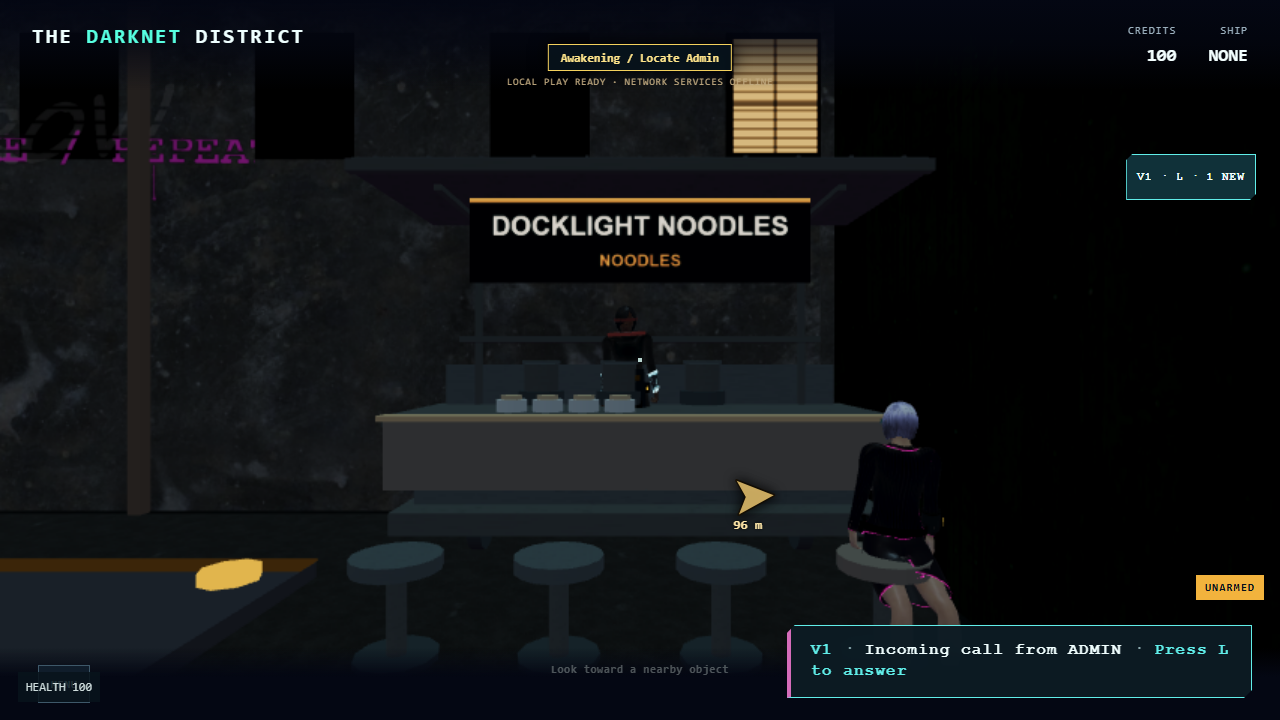
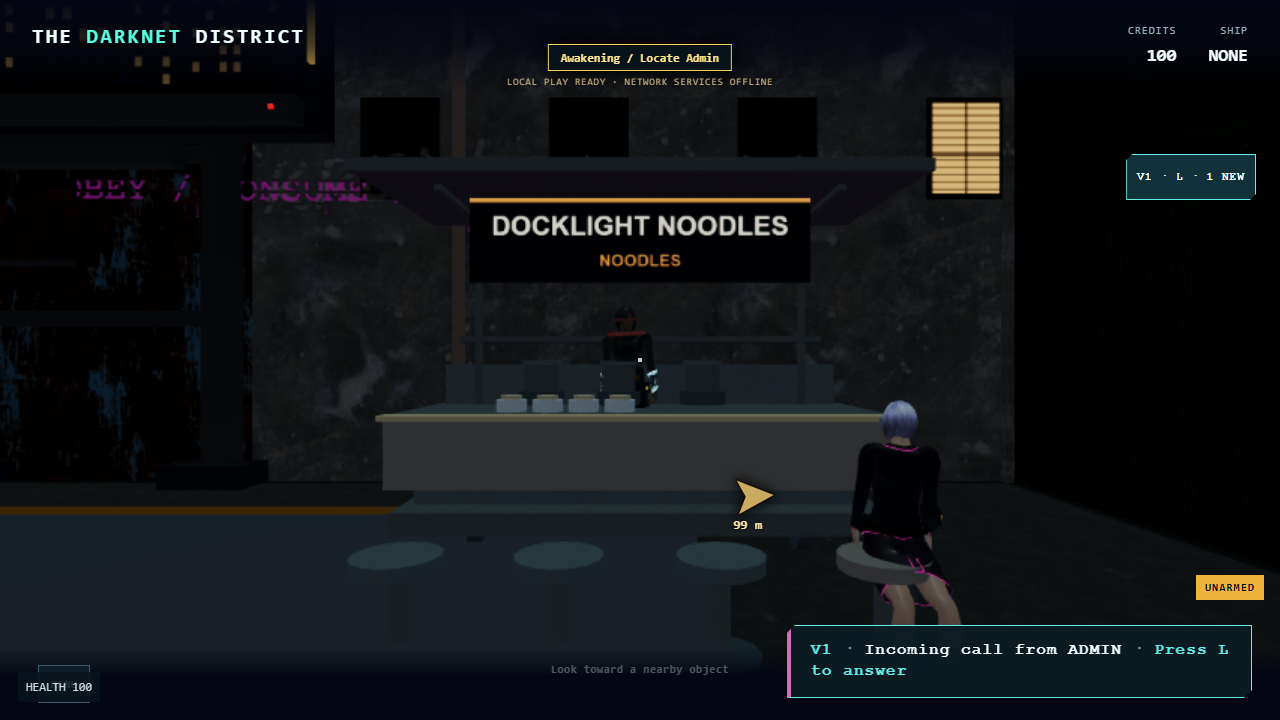
Clear Port and Outskirts stands from destinations and corners

diff --git a/void-runner/ncz-food-stands.js b/void-runner/ncz-food-stands.js
@@ -3,11 +3,11 @@
 (function(root){
  'use strict';
  const STANDS={
-  port:{name:'Docklight Noodles',x:35.5,z:-87.8,yaw:0,food:'NOODLES',accent:'#df9b5a',look:'communion-tech'},
+  port:{name:'Docklight Noodles',x:32.5,z:-89.5,yaw:0,food:'NOODLES',accent:'#df9b5a',look:'communion-tech'},
   oldtown:{name:'Lantern Kitchen',x:68.4,z:-87,yaw:Math.PI/2,food:'HOT NOODLES',accent:'#d58165',look:'ncz-neon'},
   avenue:{name:'Jade Circuit Dumplings',x:110,z:-16.8,yaw:Math.PI,food:'DUMPLINGS',accent:'#8dc6af',look:'fixer-01'},
   'far-south':{name:'Southline Broth',x:53.6,z:-155,yaw:-Math.PI/2,food:'BROTH',accent:'#d0a66c',look:'runner-02'},
-  outskirts:{name:'Last Light Rice & Tea',x:86,z:-237,yaw:Math.PI/2,food:'RICE / TEA',accent:'#b6a786',look:'fixer-01'}
+  outskirts:{name:'Last Light Rice & Tea',x:73,z:-241,yaw:0,food:'RICE / TEA',accent:'#b6a786',look:'fixer-01'}
  };
  const world=(s,x,z)=>[s.x+Math.cos(s.yaw)*x+Math.sin(s.yaw)*z,s.z-Math.sin(s.yaw)*x+Math.cos(s.yaw)*z];
  const front=s=>world(s,0,-2.15);

diff --git a/docs/development/NCZ_FOOD_STANDS.md b/docs/development/NCZ_FOOD_STANDS.md
@@ -4,11 +4,11 @@ David requested one food stand inside each of the five checkpoint quarters, with
 
 | Quarter | Stand name | Counter centre (x, z) | Faces |
 | --- | --- | ---: | --- |
-| Port | Docklight Noodles | 35.5, -87.8 | Pad |
+| Port | Docklight Noodles | 32.5, -89.5 | Pad |
 | Old Town | Lantern Kitchen | 68.4, -87 | Main Street |
 | Avenue | Jade Circuit Dumplings | 110, -16.8 | Road |
 | Far South | Southline Broth | 53.6, -155 | Main Street |
-| Outskirts | Last Light Rice & Tea | 86, -237 | Gravel route |
+| Outskirts | Last Light Rice & Tea | 73, -241 | Gravel plaza |
 
 Each stand's name appears on its sign above the food type and in its interaction prompts.
 
@@ -17,5 +17,7 @@ Each stand's name appears on its sign above the food type and in its interaction
 Street walkers and standing groups in `ncz-nightlife.js` now keep the counters clear. The street cast now preloads and uses two existing measured models, `regular-01` and `cyborg-01`, alongside its original four; headcount stays the same. This is a limited visual variety pass. The larger replacement of the blocky street character models remains open.
 
 The static collider test checks all five carts and stools against the existing city solids and gate doors. `tests/ncz-food-stands-browser.cjs` loads the running game and checks the counter, worker and customer in every quarter; it also sits and stands in Old Town and checks that ad screens stay at least 6 m from each cart. The test is optional and uses a local web server plus Playwright. The work still needs a graphics review on real hardware, especially the workers' visibility and the food materials. Current counters add readable street activity but remain a step toward the permanent AAA art target, not the final modeled food venues.
+
+The 17 Nov release clearance pass moved the Port stand away from the pad's building corner and moved the Outskirts stand away from Kai's home and a container stairway. The full canopy and stool footprint now clears the nearest fixed collision surface by **2.81 m (Port), 1.91 m (Old Town), 2.50 m (Avenue), 1.91 m (Far South), and 3.38 m (Outskirts)**. The test also requires at least 3 m from building corners, 6 m from named destination doors and taxi stops, and 8 m from checkpoint rectangles. The Outskirts placement clears its nearby resident positions; the Port stand leaves the ship, boarding point, terminal, and passage clear. These distances come from the game's collision plan and are checked in `tests/ncz-food-stands.test.cjs`.
 
 Player-eye captures from the local low-graphics browser run: [Port](ncz-food-stands/port-street.png), [Old Town](ncz-food-stands/oldtown-street.png), [Old Town seated](ncz-food-stands/oldtown-seated.png), [Avenue](ncz-food-stands/avenue-street.png), [Far South](ncz-food-stands/far-south-street.png), and [Outskirts](ncz-food-stands/outskirts-street.png). These show existing fallback crowd models and procedural cart materials. They are not production renders.
